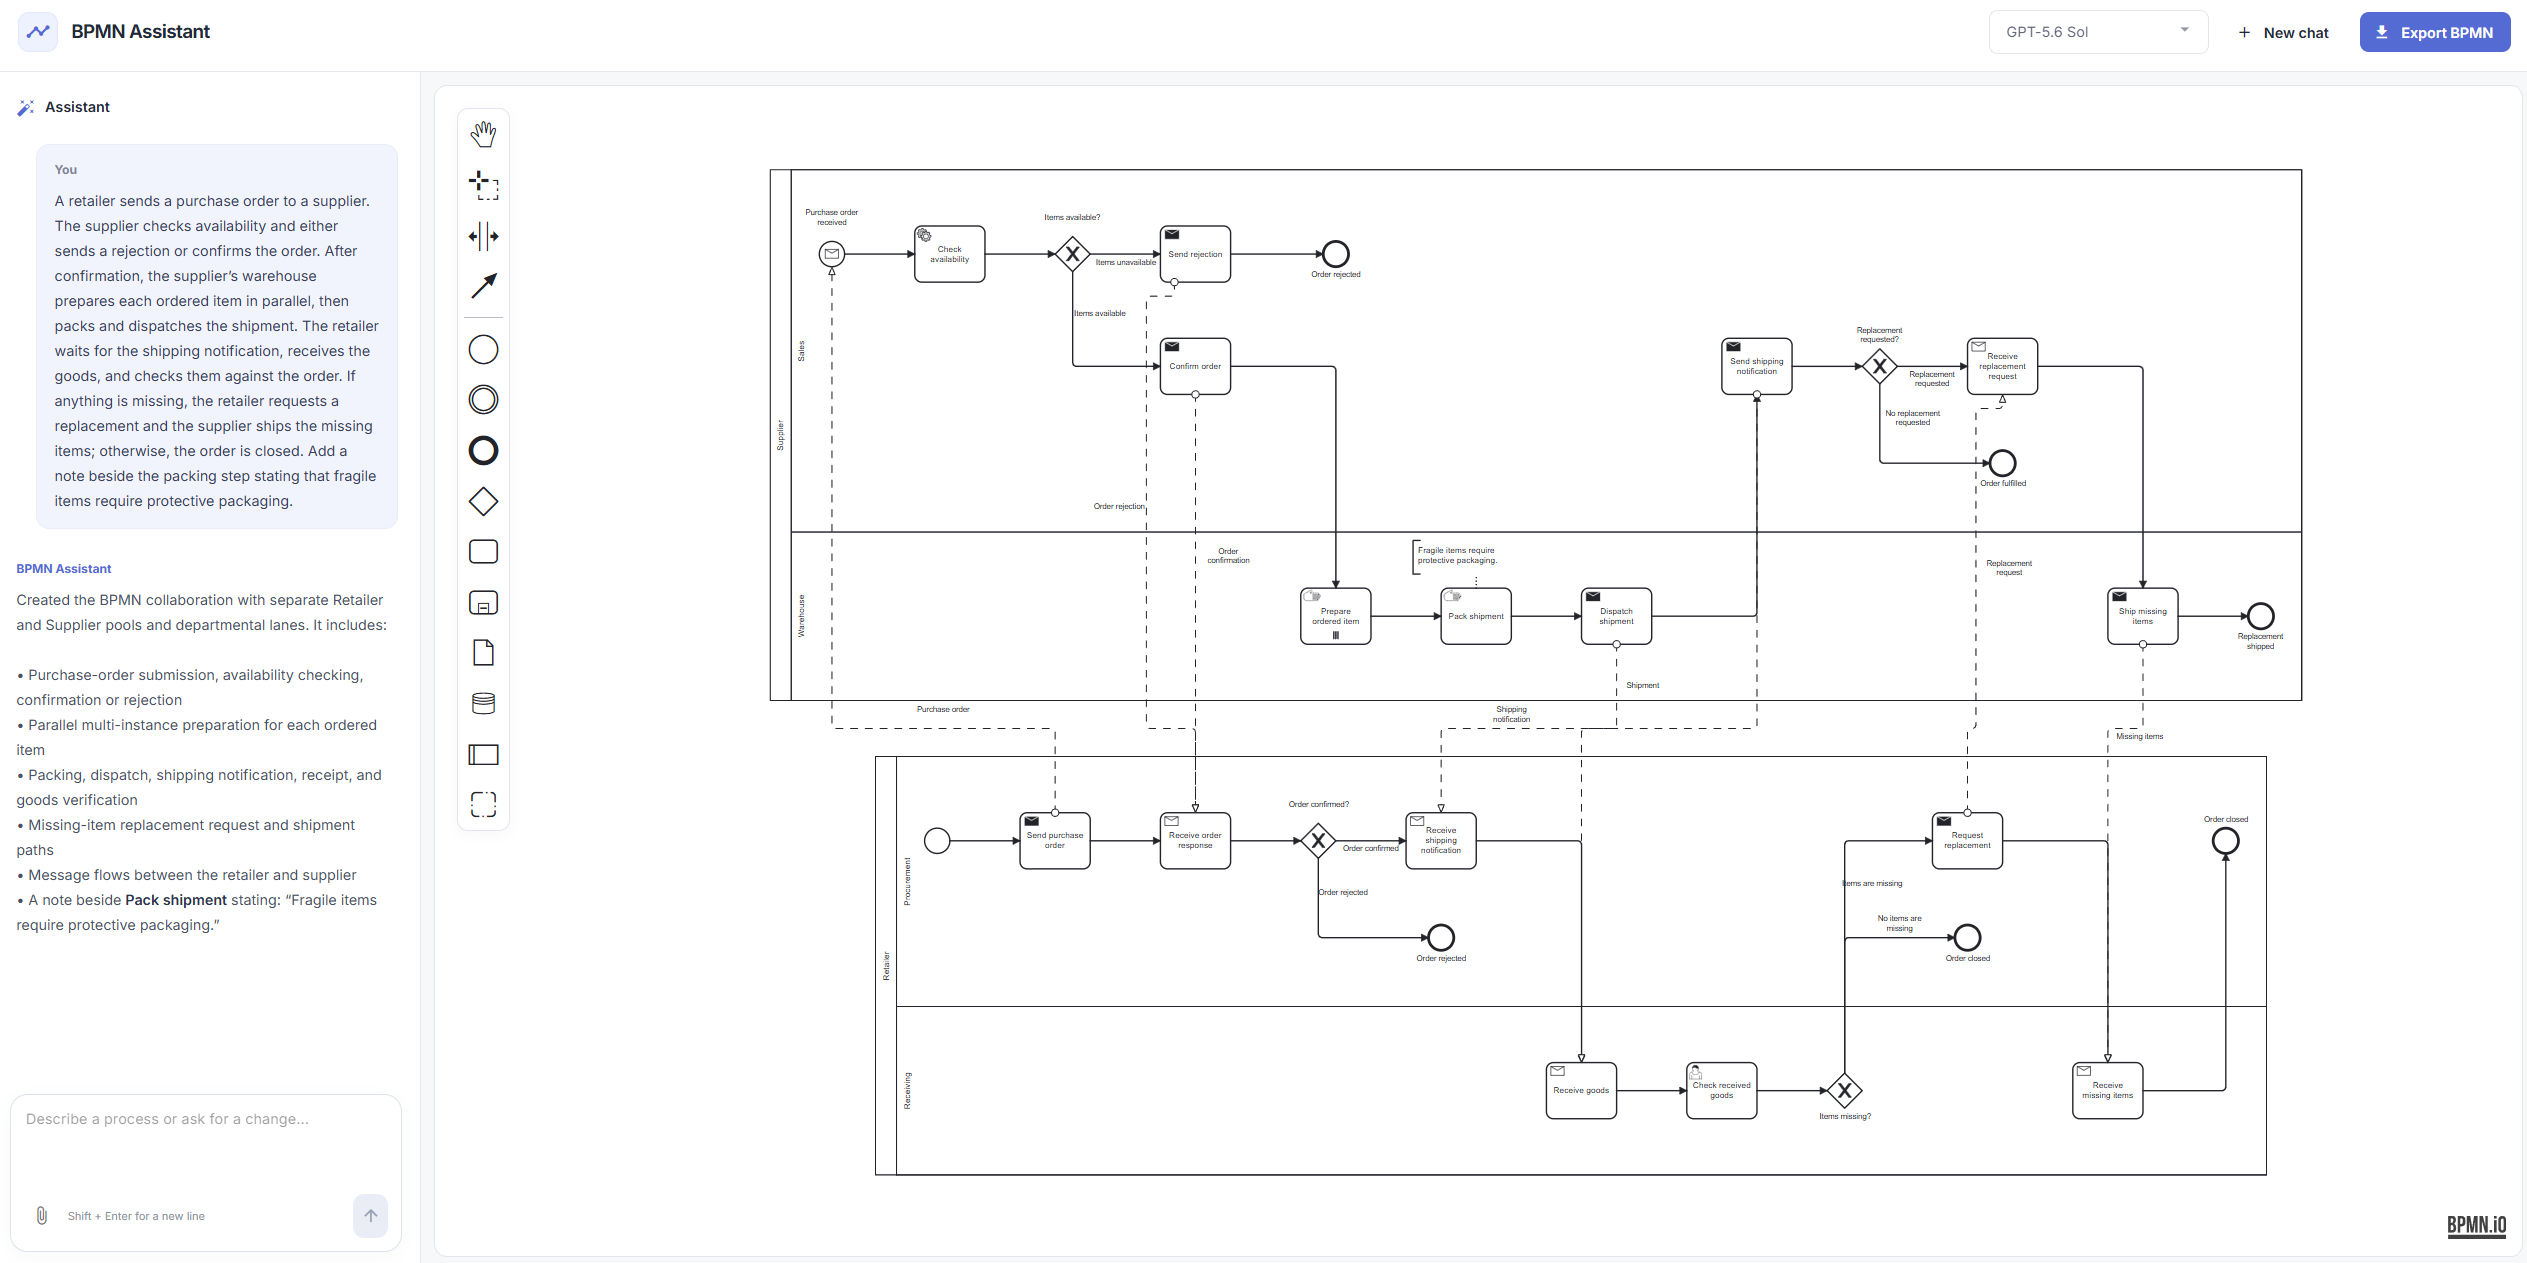
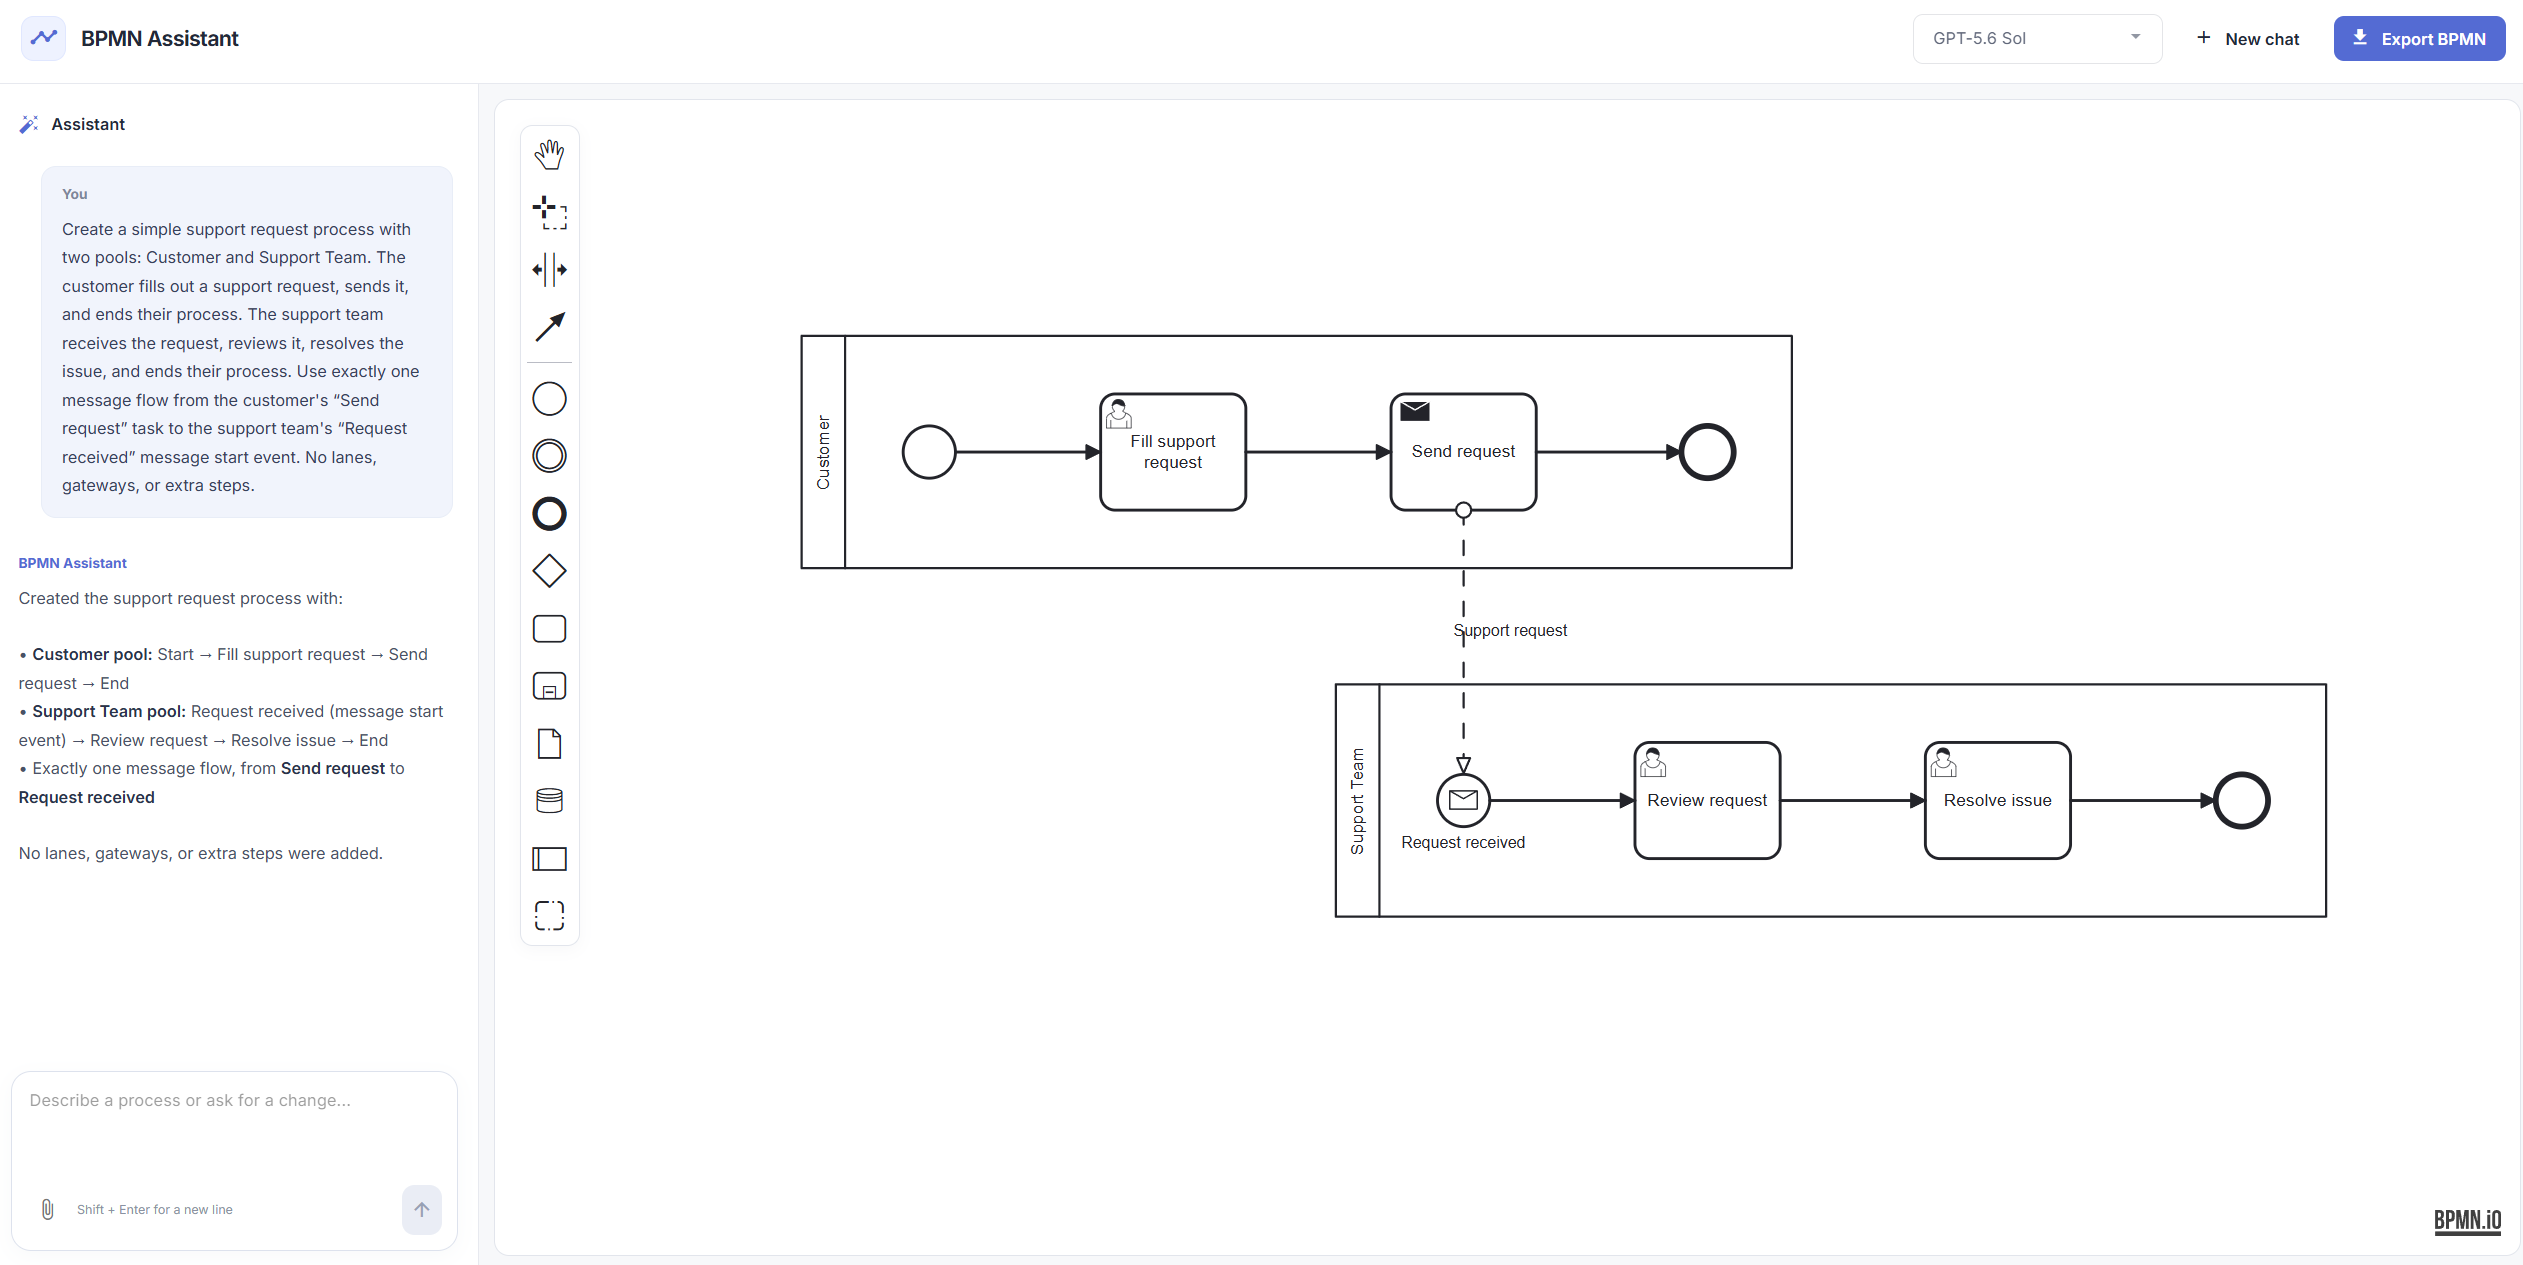
Add screenshot to README

diff --git a/README.md b/README.md
@@ -14,7 +14,7 @@ Describe a business process in plain language, refine it through conversation, a
 
 Bring an OpenAI or Anthropic API key to get started.
 
-![Purchase order process with message flows, a multi-instance task, and a text annotation](assets/app_screenshot.png)
+![Support request process with Customer and Support Team pools connected by one message flow](assets/app_screenshot.png)
 
 ## From an idea to a process you can edit
 
@@ -26,6 +26,10 @@ Bring an OpenAI or Anthropic API key to get started.
 - **Run it your way.** Use the hosted app or run locally with Docker and your own API keys.
 
 Useful for analysts drafting workflows, teams discussing process changes, and students learning BPMN.
+
+A more detailed process with pools, lanes, and message flows:
+
+![Purchase order process with message flows, a multi-instance task, and a text annotation](assets/purchase_order_screenshot.png)
 
 ## Try a process
 
